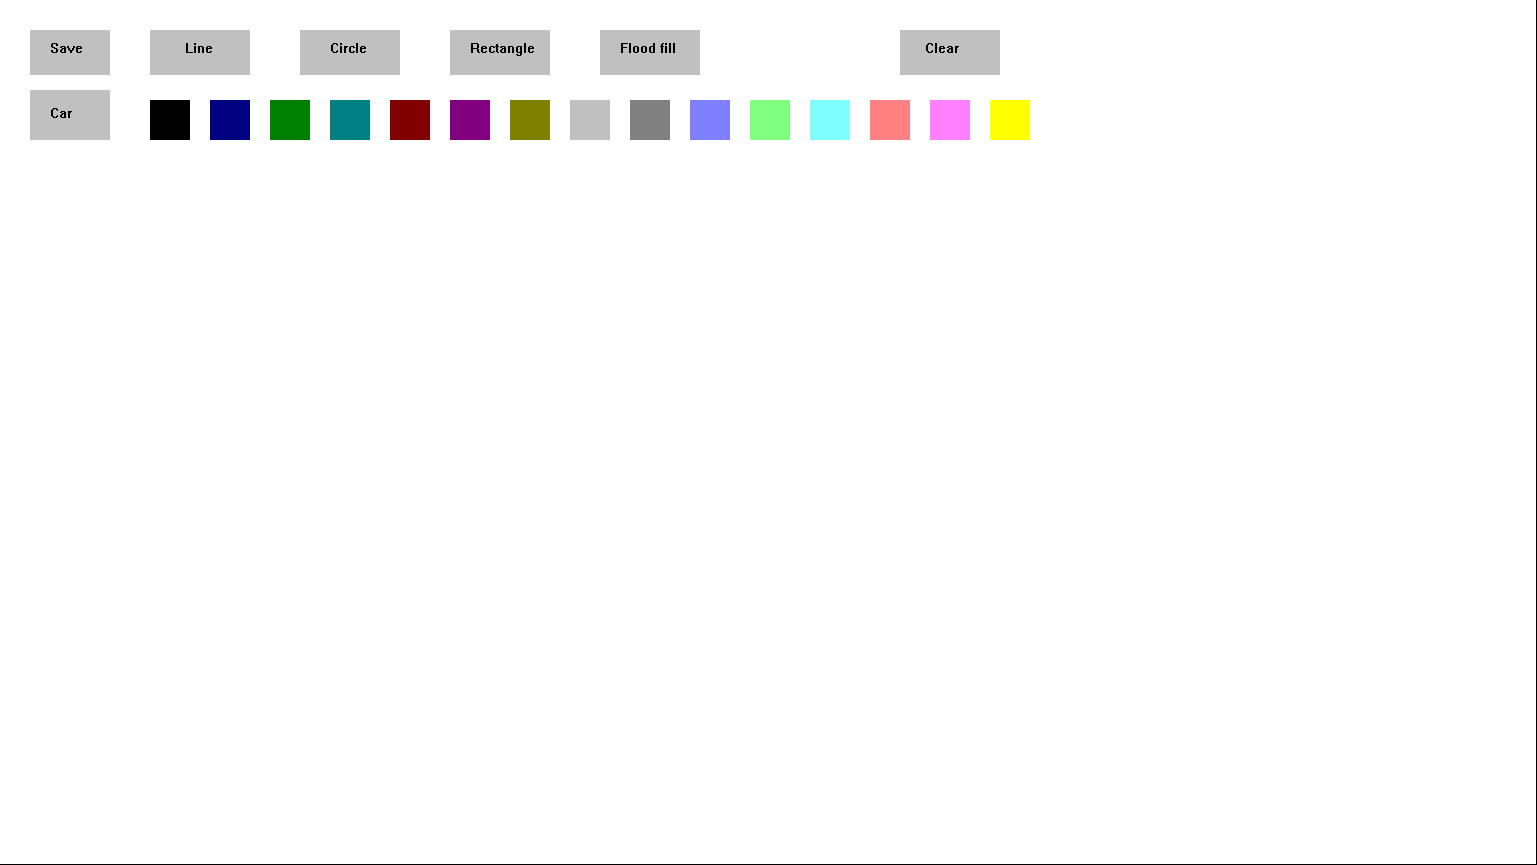
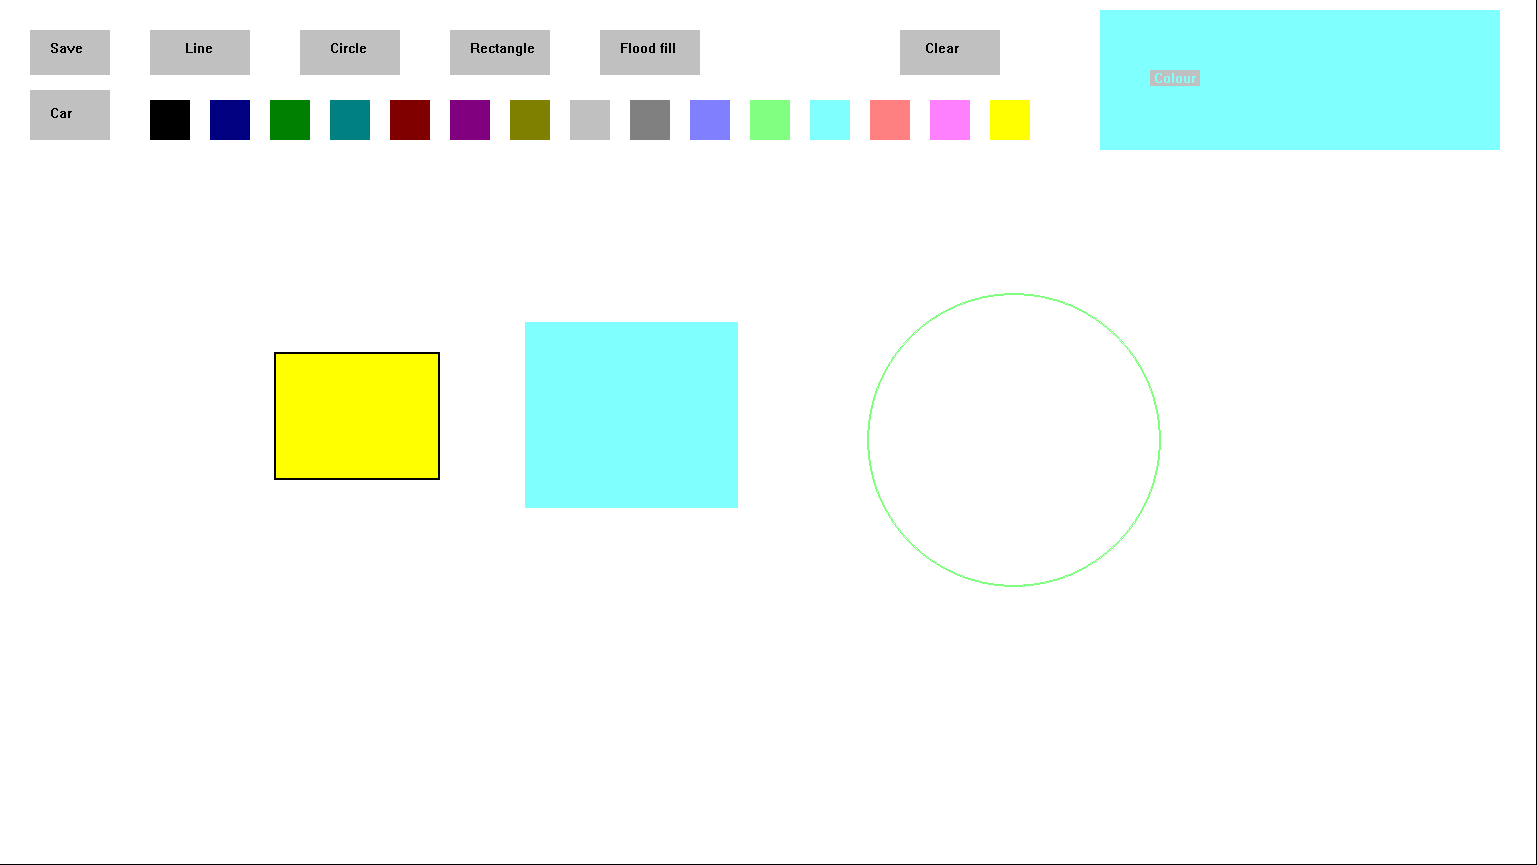
correct code for flood fill

Changed region(s): [[0.7183, 0.0, 0.9993, 0.1873], [0.3435, 0.3746, 0.4997, 0.5931], [0.1561, 0.4058, 0.3123, 0.5618]]

diff --git a/Home/src/paint.cpp b/Home/src/paint.cpp
@@ -156,11 +156,13 @@ void beginDrawing(int xcl, int ycl, int clr, char cmd)
     {
         setfillstyle(SOLID_FILL, clr);
         int oc = getpixel(xcl, ycl);
-        floodfill(xcl, ycl, clr);
-        int x1, y1;
+        // floodfill(xcl, ycl, clr);
 
-        setfillstyle(SOLID_FILL, 8);
-        makeWindow();
+        // a custom flood fill function so that the user can select the colour of the boundary as well as the fill
+        cFloodFill(xcl, ycl, clr, oc);
+
+        // setfillstyle(SOLID_FILL, 8);
+        // makeWindow();
     }
     clearmouseclick(WM_LBUTTONDOWN);
 }
